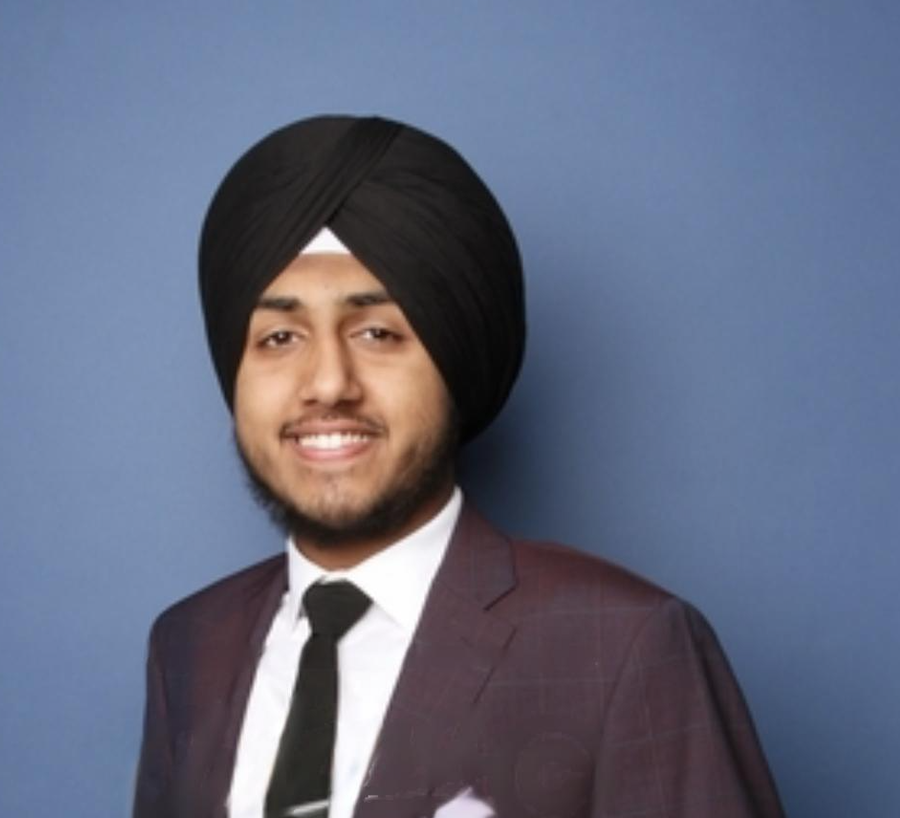
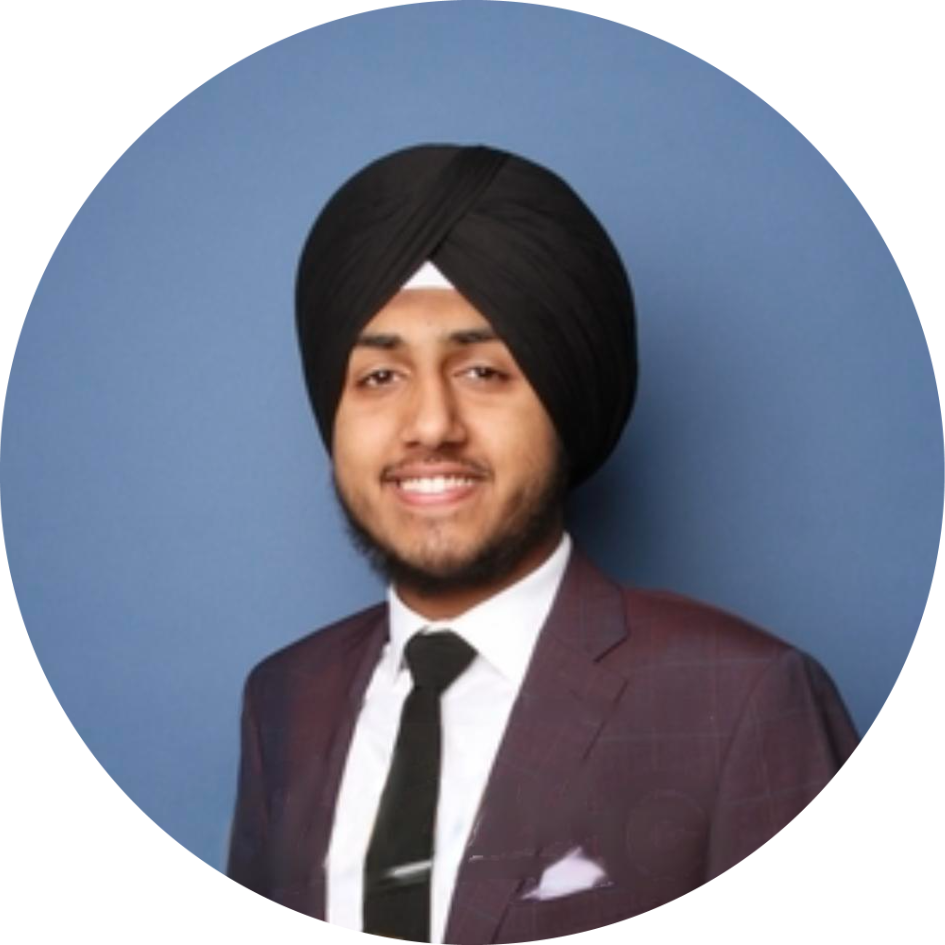
Made the entire profile page with links to linkdin and resume, formatted picture, text, and added animations

diff --git a/style.css b/style.css
@@ -177,20 +177,116 @@ a:hover{
 
 /* profile-section */
 
-.section__pic-container {
-    width: 500px;
-    height: 500px;
+
+section{
+    padding-top: 4vh;
+    height: 96vh;
+    margin: 0 10rem;
+    box-sizing: border-box;
+    min-height: fit-content;
+}
+
+.section-container{
+    display: flex;
+}
+
+#profile{
     display: flex;
     justify-content: center;
-    align-items: center;
+    gap: 5rem;
+    height: 80vh;
 }
 
-.section__pic-container img {
-    width: 100%;
-    height: 100%;
-    object-fit: cover;
-    object-position: 0%;
-    clip-path: circle(50%);
-    transform: translateX(50px); 
+.section__pic-container{
+    display: flex;
+    height: 400px;
+    width: 400px;
+    margin: auto 0;
+}
+
+.section__text {
+    align-self: center;
+    text-align: center;
+}
+
+.section__text p{
+    font-weight: 600;
+}
+.section__text__p1{
+    font-size: 1.75rem;
+    margin-bottom: 1rem;
+}
+
+.section__text__p2{
+    font-size: 1.75rem;
+    margin-bottom: 1rem;
+}
+.title {
+    font-size: 3rem;
+    text-align: center;
+}
+
+
+socials-container{
+    display: flex;
+    justify-content: center;
+    margin-top: 1rem;
+    gap: 1rem;
+}
+/* icons */
+
+.icon{
+    cursor: pointer;
+    height: 2rem;
+}
+
+/* Our buttons */
+
+.btn-container{
+    display: flex;
+    justify-content: center;
+    gap: 1rem;
+}
+
+.btn{
+    font-weight: 600;
+    transition: all 300ms ease;
+    padding: 1rem;
+    width: 8rem;
+    border-radius: 2rem;
 
 }
+
+.btn-color-1,
+ .btn-color-2 {
+    border: rgb(53,53,53) 0.1rem solid;
+}
+
+.btn-color-1:hover,
+ .btn-color-2:hover {
+    
+    cursor: pointer;
+}
+
+.btn-color-1,
+ .btn-color-2:hover {
+    background: rgb(53,53,53);
+    color: white;
+ }
+
+ .btn-color-1:hover{
+    background: rgb(0,0,0);
+ }
+
+ .btn-color-2{
+    background: none;
+
+ }
+
+ .btn-color-2:hover{
+    background: rgb(255,255,255) 0.1rem solid;
+ }
+
+ .btn-container{
+    gap:1rem;
+ }

diff --git a/index.html b/index.html
@@ -44,6 +44,17 @@
             <p class="section__text__p1"> Hello, I'm</p>
             <h1 class="title">Karnpreet Cheema</h1>
             <p class="section__text__p2">A passionate and dedicated software developer.
+                <div class="btn-container">
+                    <button class="btn btn-color-2" onclick="window.open('./assets/resume-example.pdf')">Download Cv</button>
+                
+                
+                    <button class="btn btn-color-1" onclick="location.href='./# Contact'"">Contact Info</button>
+                </div>
+                    <div id="socials-container">
+                        <img src="./assets/linkedin.png" alt= "My LinkedIn Profile" class="icon" onclick="location.href='https:www.linkedin.com/in/karn-cheema-0b92761b2/' ">
+                        <img src="./assets/github.png" alt= "My Github Profile" class="icon" onclick="location.href='https://github.com/ksc-30'">
+                    </div>
+                
         </div>
     </section>
     <script src="script.js"> </script>
